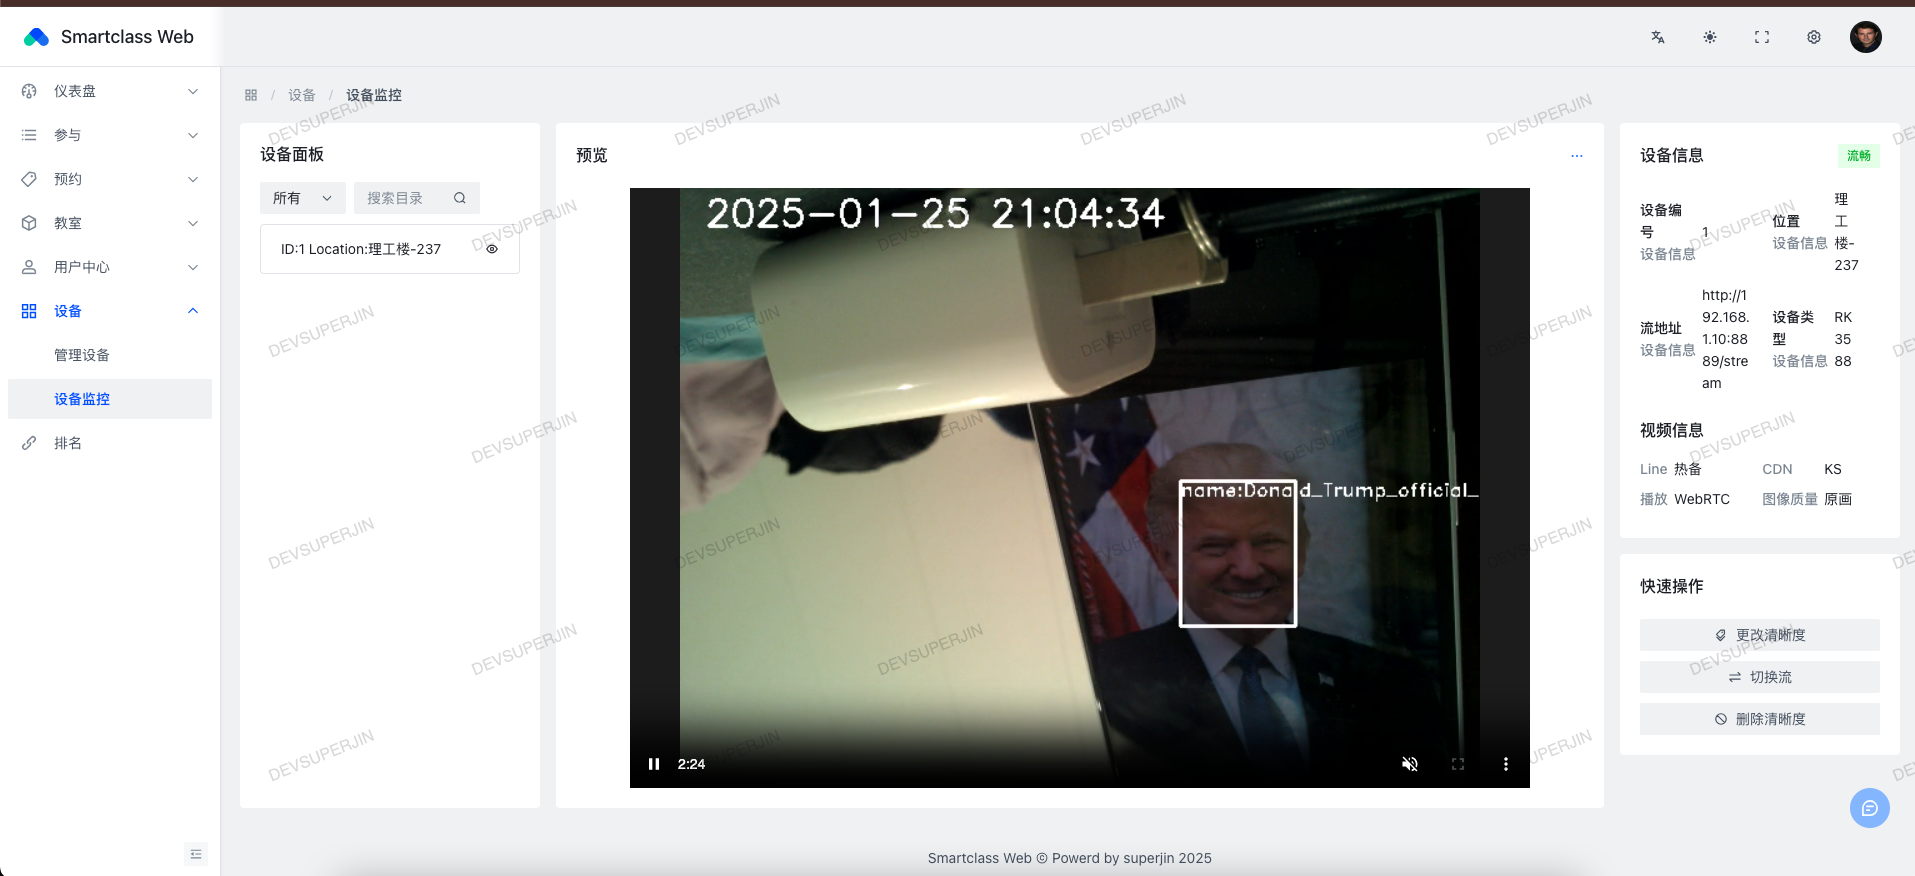
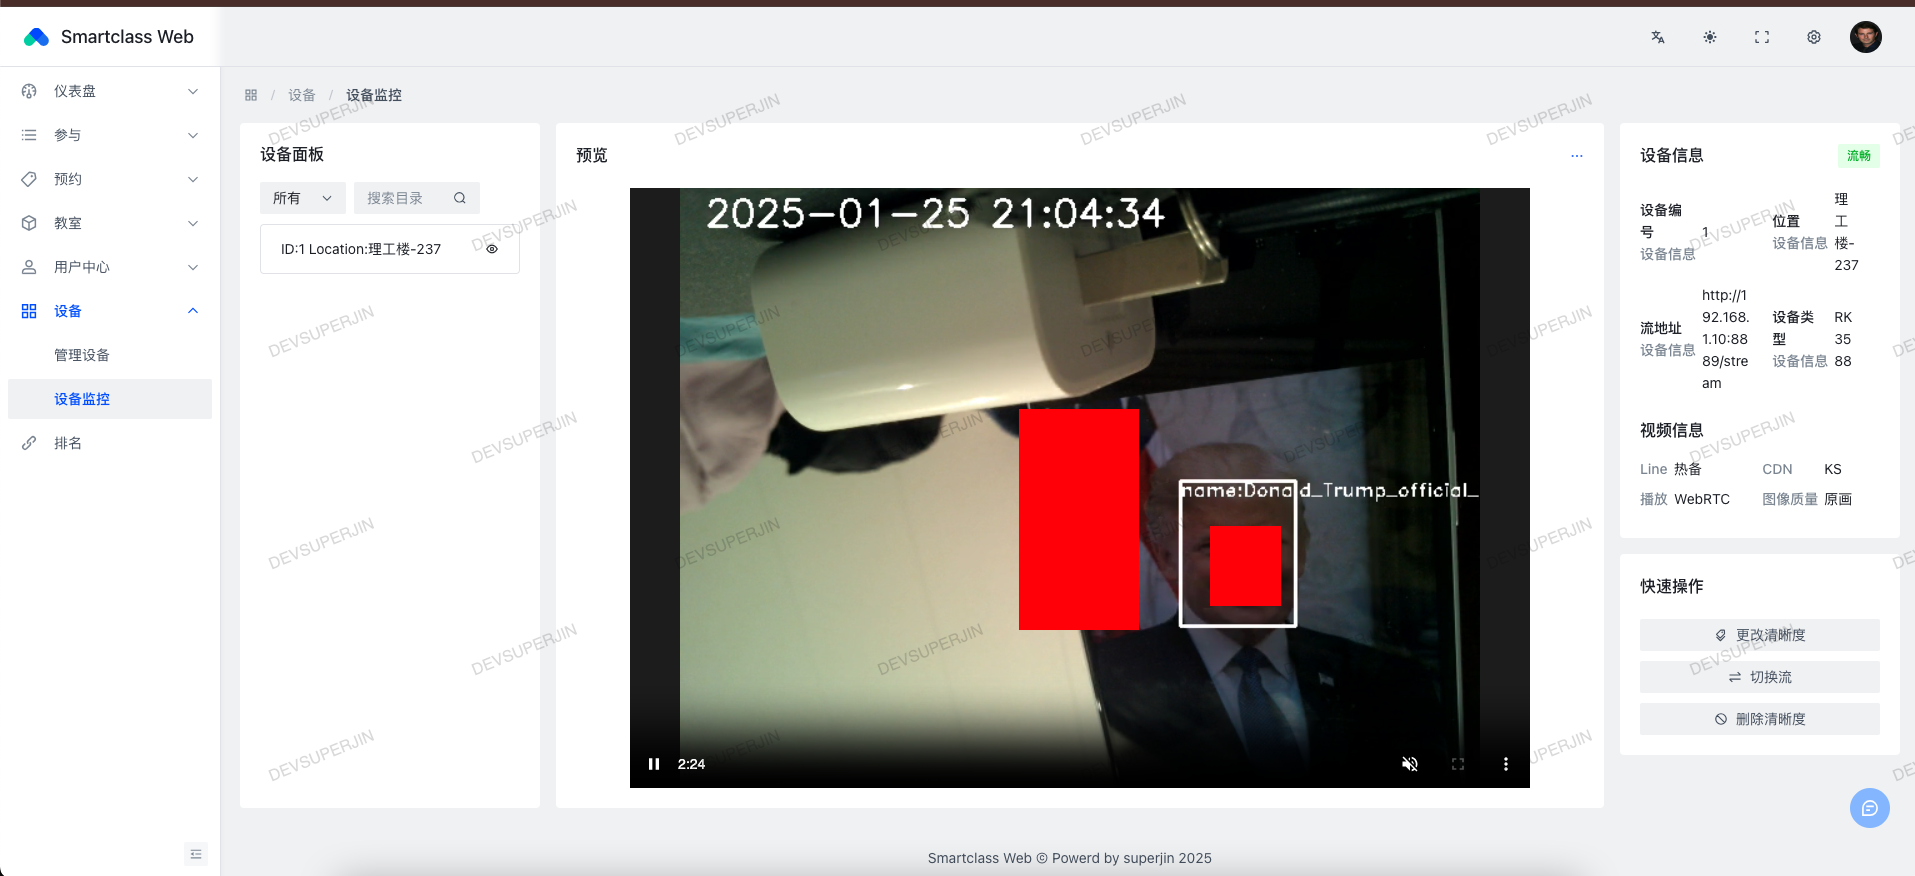
Update README.md

Changed region(s): [[0.5238, 0.4623, 0.6778, 0.7397]]

diff --git a/README.md b/README.md
@@ -1,17 +1,17 @@
 # 智慧教室系统 (Smart Class)
 
-本项目是一个集成的智慧教室解决方案，由三个模块组成：`smartclass-web`、`smartclass-backend` 和 `smartclass-node`。此外这是我的毕业设计。
+本项目是一个集成的智慧教室解决方案(目前代码还是屎山状态)，由三个模块组成：`smartclass-web`、`smartclass-backend` 和 `smartclass-node`。除此之外，是我的毕业设计。
 
 ## 项目组成
 
 1. **smartclass-web**  
-   本项目的前端
+   本项目的前端，基于 Arco Design 开发，不仅提供了功能齐全的管理配置页面，还具有设备录像实时查看等功能。
 
 2. **smartclass-backend**  
-   本项目的后端
+   本项目的后端，暂且基于Fastapi开发，后期会重构。
 
 3. **smartclass-node**  
-   本项目的设备端
+   本项目的设备端，暂且基于Python开发，目前可实现在RK3588、RK3566等Rockchip平台上实现实时推理与编码。
 
 ## 项目架构
 
@@ -33,33 +33,37 @@
 
 ## 项目截图
 
-### 1. Page 1
+### 0. 仪表板
+![Page 0](images/0.jpg)
+仪表板包含了系统基本的统计信息,公告等。
+
+### 1. 用户设置
 ![Page 1](images/1.jpg)
 如图所示
 
-### 2. Page 2
+### 2. 设备监控
 ![Page 2](images/2.jpg)
-如图所示
+(红色区域为手工PS,排除审核风险)
 
-### 3. Page 3
+### 3. 我的参与
 ![Page 3](images/3.jpg)
-如图所示
+我的参与包含了日程表及信息统计功能。
 
-### 4. Page 4
+### 4. 教室管理
 ![Page 4](images/4.jpg)
-如图所示
+教室管理包含了教室的添加删除等功能。
 
-### 5. Page 5
+### 5. 创建预约
 ![Page 5](images/5.jpg)
-如图所示
+创建预约包含了一个分步表单。
 
 ### 6. 低延时、高性能
-![Page 5](images/6.jpg)
+![Page 6](images/6.jpg)
 系统从`图像采集解码->图像处理及推理->编码->推流->WEB端拉流预览`整体延时约在500ms左右。
 
 ## 协议与条款
 
-如您需要在企业网络中使用 Smart Class，建议先征求 IT 管理员的同意。下载、使用或分发 Smart Class 前，您必须同意 [协议](./LICENSE) 条款与限制。本项目不提供任何担保，亦不承担任何责任。
+如您需要在生产环境中使用 Smart Class，建议先征求 **单位负责人** 的同意。下载、使用或分发 Smart Class 前，您必须同意 [协议](./LICENSE) 条款与限制。本项目不提供任何担保，亦不承担任何责任。
 
 ## 快速安装
 
